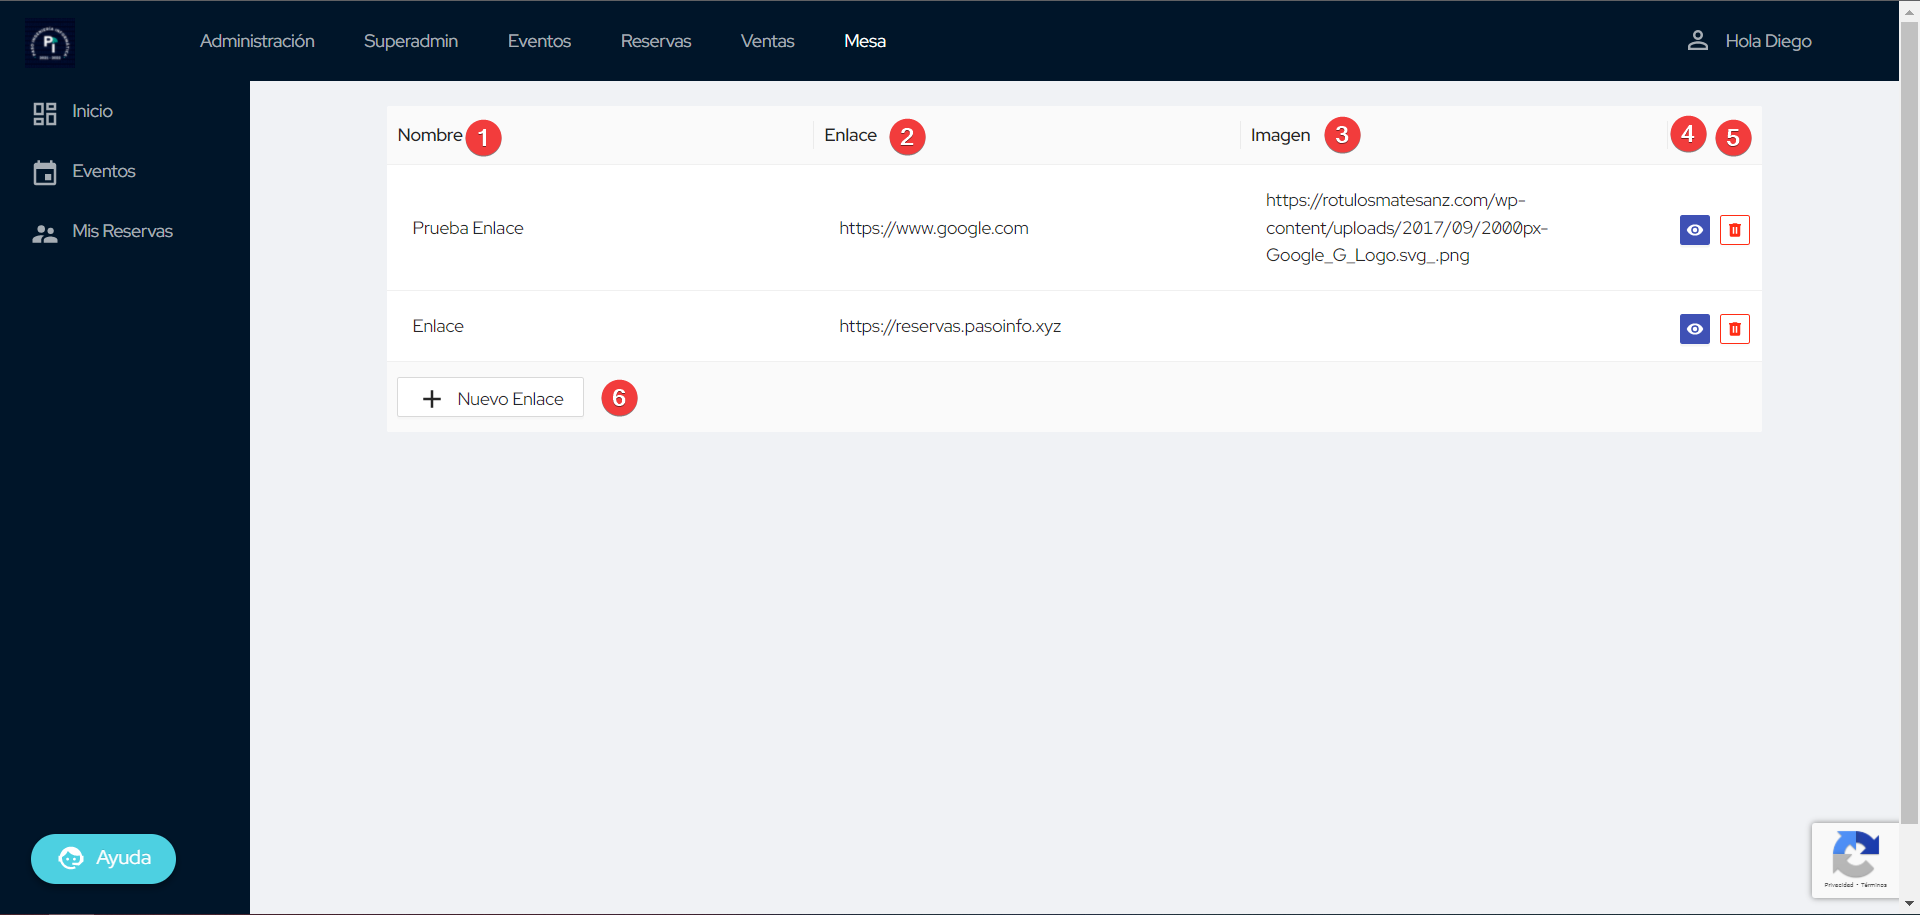
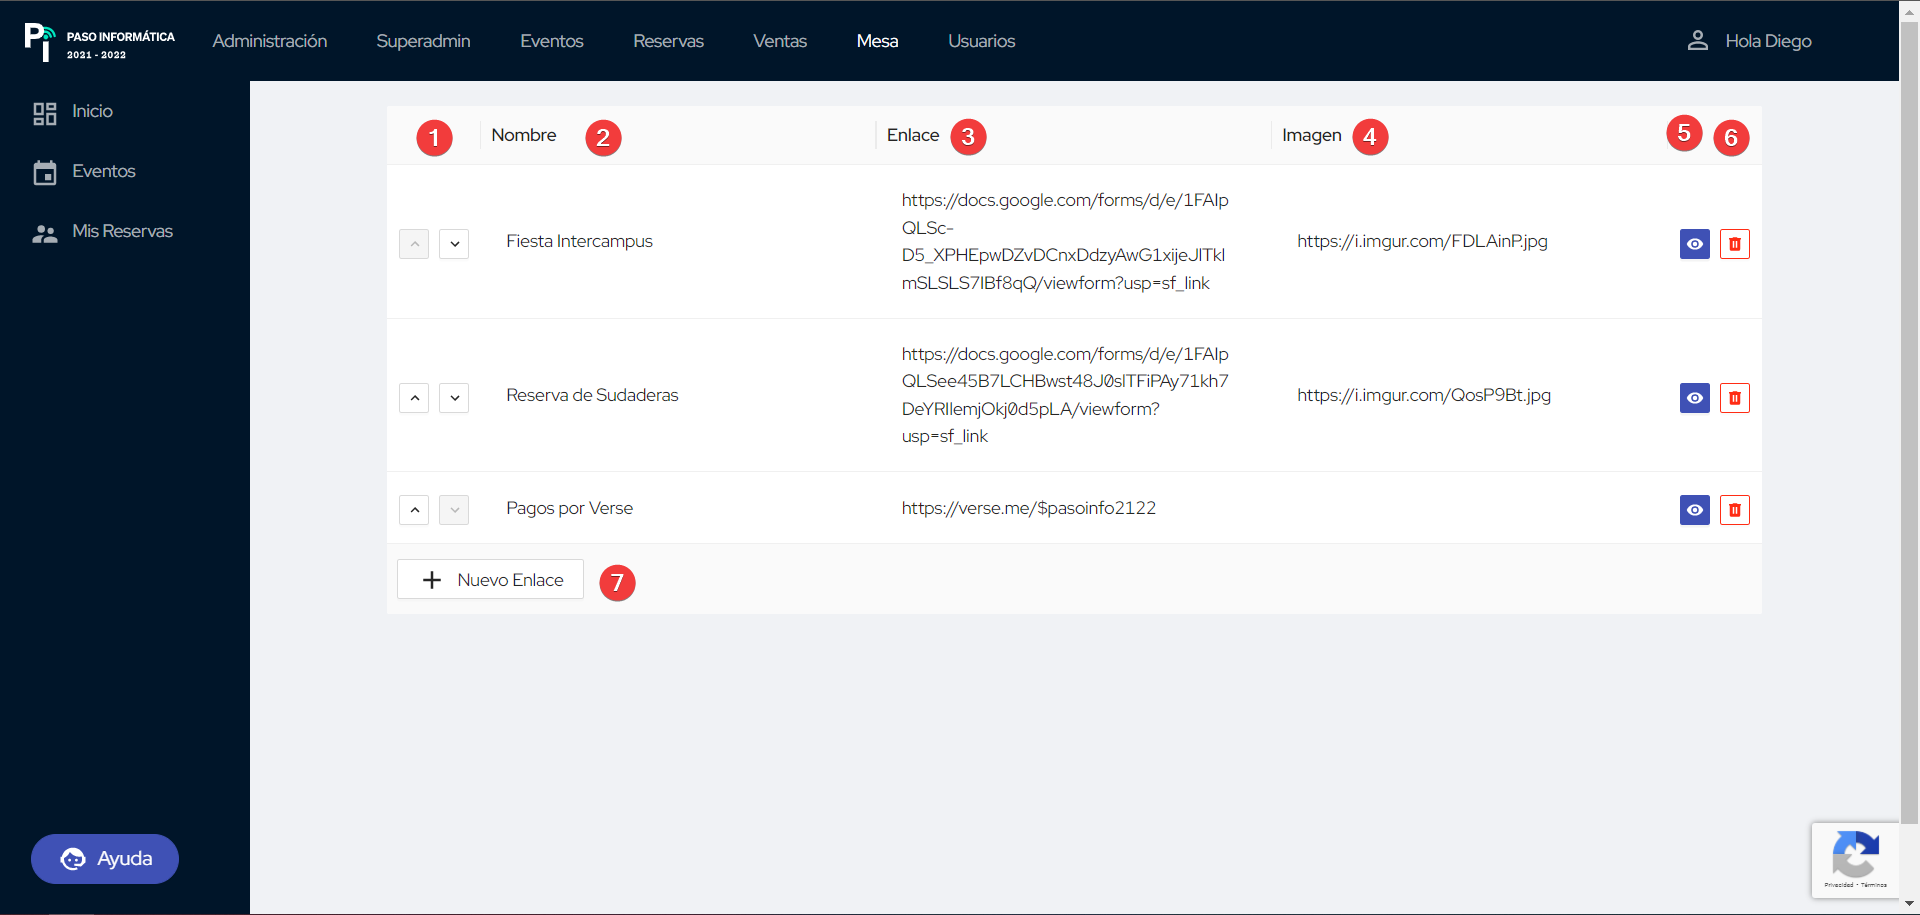
Actualizar Enlaces

diff --git a/ayuda/admin/mesa/enlaces.md b/ayuda/admin/mesa/enlaces.md
@@ -18,12 +18,13 @@ En la página de gestión de enlaces se verá algo tal que así:
 
 Los elementos que se muestran son:
 
-1. Nombre del enlace
-2. Enlace en cuestión
-3. Imagen (opcional) del enlace
-4. Cambiar de visible a oculto, y viceversa
-5. Eliminar enlace
-6. Crear nuevo enlace
+1. Reordenar el enlace
+2. Nombre del enlace
+3. Enlace en cuestión
+4. Imagen (opcional) del enlace
+5. Cambiar de visible a oculto, y viceversa
+6. Eliminar enlace
+7. Crear nuevo enlace
 
 ## Crear un nuevo enlace
 
@@ -49,12 +50,9 @@ convertirá en editable. Hay que tener en cuenta un detalles a la hora de editar
 editarlo hay que pulsar <kbd>Enter</kbd> para aplicar los cambios. 
 
 Para editar la visibilidad basta con clicar en el botón correspondiente (en **azul oscuro indica que está visible**).
+También se puede cambiar el orden de los enlaces haciendo clic en los botones respectivos.
 
 ## F.A.Q.
 
 !!! question "¿Se puede usar cualquier imagen?"
     Sí, con tal de que sea accesible publicamente y con una extensión compatible con la web.
-
-!!! question "¿Cómo puedo cambiar el orden de los enlaces?"
-    Para cambiar el orden de los enlaces, la solución por ahora es volver a crearlos en el orden que se quiera y
-    eliminar los antiguos.
